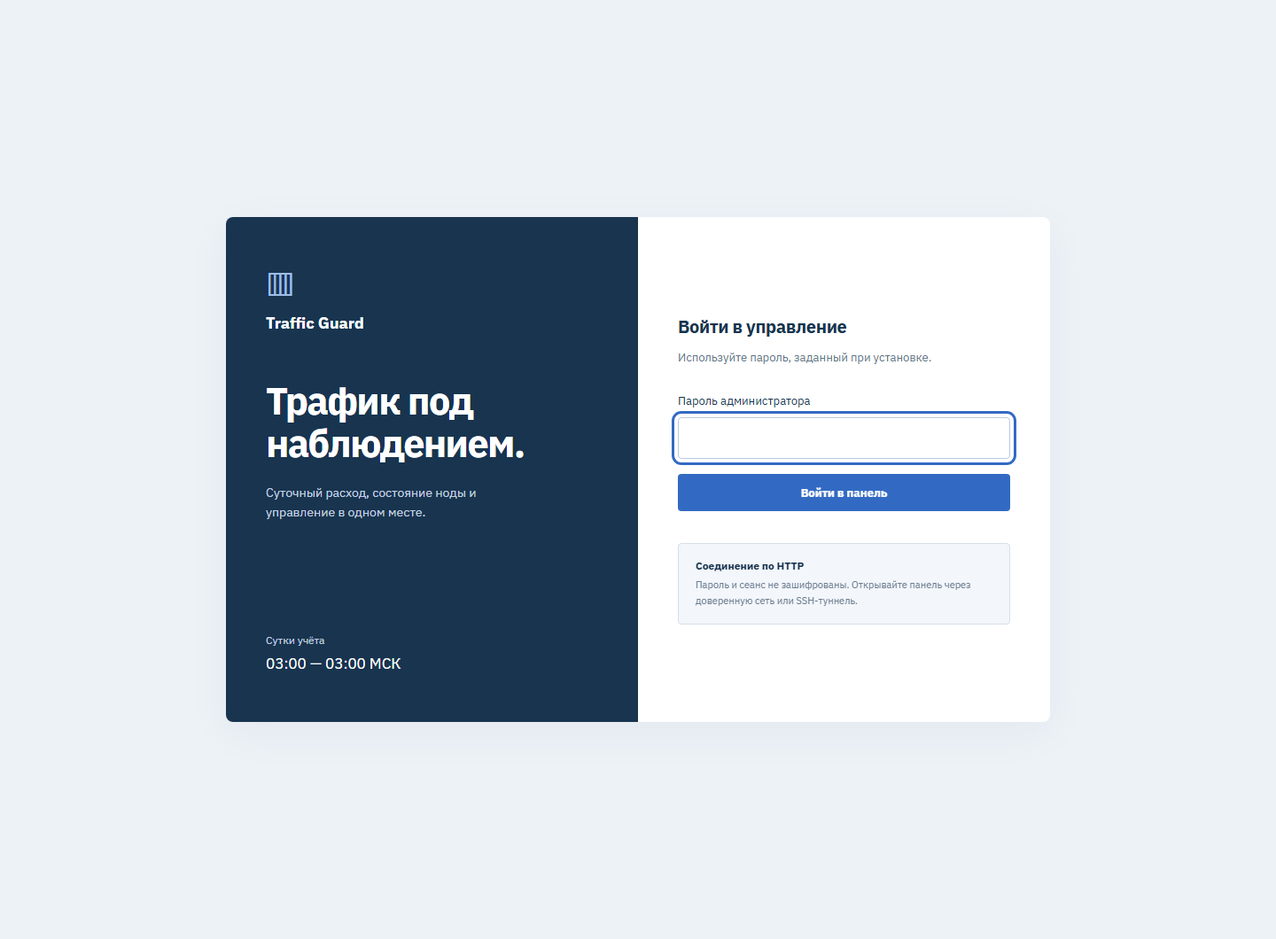
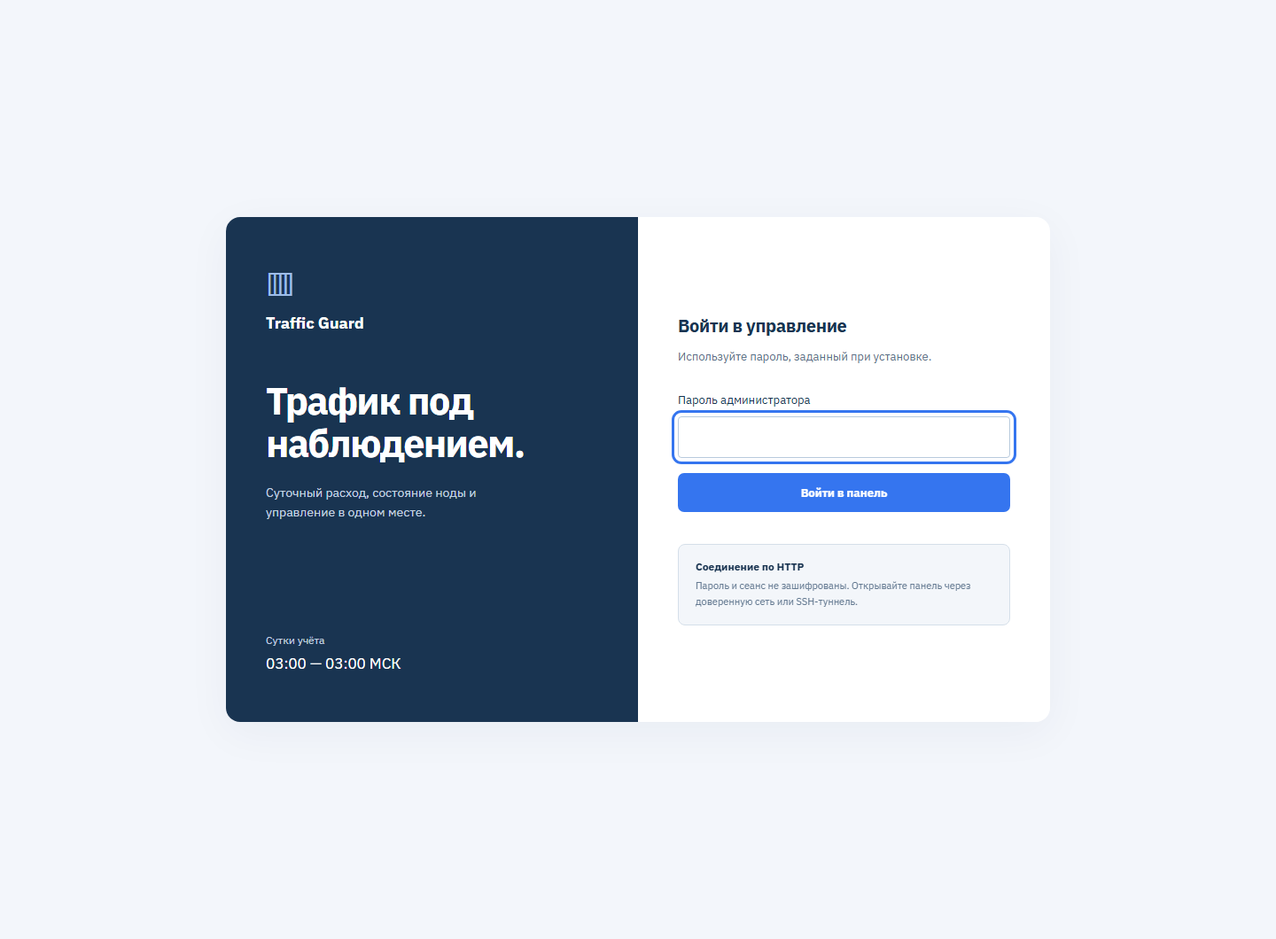
Refresh dashboard design and add interactive traffic chart inspection

Changed region(s): [[0.5312, 0.3425, 0.8125, 0.5604], [0.5312, 0.5915, 0.6875, 0.6538]]

diff --git a/static/app.js b/static/app.js
@@ -3,6 +3,7 @@ const base = document.documentElement.dataset.base;
 const $ = selector => document.querySelector(selector);
 let csrf = '', busy = false, statusData = null, historyData = null;
 let settingsDirty = false, settingsLoaded = false;
+let chartHours=24, chartState=null, chartIndex=-1;
 const modes = {active:'Учёт активен', waiting:'Ожидание 03:00', hold:'Лимит достигнут'};
 const reasons = {threshold:'Достигнут суточный порог', user_pause:'Нода остановлена вручную', user_resume:'Нода запущена вручную', user_rearm:'Учёт восстановлен с ожиданием новых суток', first_full_utc_day:'Ожидание первых полных суток', host_reboot:'Учёт продолжен после перезагрузки сервера', user_settings:'Настройки трафика изменены'};
 const gb = bytes => (Number(bytes || 0) / 1e9).toLocaleString('ru-RU', {maximumFractionDigits:2}) + ' GB';
@@ -78,6 +79,7 @@ function renderStatus(data) {
   drawRuler(cfg.limit,state.used,trusted);
   $('#rate-rx').textContent=fresh&&health.ok&&!fault?mbps(snap.rate_rx):'—';$('#rate-tx').textContent=fresh&&health.ok&&!fault?mbps(snap.rate_tx):'—';
   $('#node-state').textContent=snap.node_missing?'Не создан':snap.node_running===null?'Не удалось проверить':snap.node_running?'Работает':'Остановлена';
+  $('#node-state').classList.toggle('running',snap.node_running===true);
   $('#node-explanation').textContent=fault?'Запуск заблокирован до восстановления учёта.':state.manual_paused?'Нода остановлена вручную. Автоматический запуск при смене суток отключён.':state.mode==='waiting'&&state.passive_wait?'Начнём полный учёт с ближайших 03:00 МСК.':state.mode==='hold'?'Суточный порог достигнут. Дождитесь новых суток.':!policy.stop_on_limit?'Трафик учитывается. Остановка по порогу отключена.':snap.node_running?'Guard следит за расходом трафика.':'Можно запустить при достоверном остатке лимита.';
   $('.node-footnote').textContent=policy.stop_on_limit?'Запуск разрешён только при доступном остатке лимита.':'Порог не ограничивает запуск. Ручная пауза и аварийная защита действуют.';
   $('#interface').textContent=cfg.interface;$('#coverage').textContent=trusted&&state.accounting_complete!==false?'Полный':'Неполный';$('#controller-state').textContent=fault?'Блокировка':fresh&&health.ok?'Работает':'Требует проверки';
@@ -86,15 +88,66 @@ function renderStatus(data) {
 }
 function rows(target, days) { const body=$(target);body.replaceChildren();if(!days.length){const tr=document.createElement('tr'),td=document.createElement('td');td.colSpan=5;td.textContent='История появится после первых измерений. Расход до установки неизвестен.';tr.append(td);body.append(tr);return;}for(const day of days){const tr=document.createElement('tr');for(const text of [day.day,gb(day.used),gb(day.rx),gb(day.tx)]){const td=document.createElement('td');td.textContent=text;tr.append(td);}const td=document.createElement('td'),tag=document.createElement('span');tag.className='coverage-tag'+(day.complete?' full':'');tag.textContent=day.complete?'Полный':'Неполный';td.append(tag);tr.append(td);body.append(tr);} }
 function drawChart(samples) {
-  const chart=$('#traffic-chart');chart.replaceChildren();const mobile=matchMedia('(max-width:650px)').matches;
-  chart.setAttribute('viewBox','0 0 800 '+(mobile?260:220));
-  const now=Date.now()/1000,start=now-86400,left=mobile?78:48,right=786,top=15,bottom=mobile?210:182;
-  const max=Math.max(1,...samples.flatMap(s=>[s.rx*8/1e6,s.tx*8/1e6]))*1.12;
+  const chart=$('#traffic-chart');chart.replaceChildren();hideChartPoint();const mobile=matchMedia('(max-width:650px)').matches;
+  const height=mobile?260:220;
+  chart.setAttribute('viewBox','0 0 800 '+height);
+  const now=Date.now()/1000,start=now-chartHours*3600,left=mobile?78:48,right=786,top=15,bottom=mobile?210:182;
+  const points=samples.filter(s=>Number.isFinite(s.at)&&Number.isFinite(s.rx)&&Number.isFinite(s.tx)&&s.rx>=0&&s.tx>=0&&s.at>=start&&s.at<=now).sort((a,b)=>a.at-b.at);
+  let peakRx=0,peakTx=0;for(const s of points){peakRx=Math.max(peakRx,s.rx);peakTx=Math.max(peakTx,s.tx);}
+  const max=Math.max(1,peakRx*8/1e6,peakTx*8/1e6)*1.12;
+  const xOf=s=>left+(s.at-start)/(now-start)*(right-left),yOf=value=>bottom-(value*8/1e6/max)*(bottom-top);
   for(let i=0;i<=4;i++){const y=bottom-(bottom-top)*i/4;chart.append(svgElement('line',{x1:left,y1:y,x2:right,y2:y,class:'chart-grid'}));chart.append(svgElement('text',{x:mobile?70:40,y:y+4,'text-anchor':'end',class:'chart-label'},(max*i/4).toLocaleString('ru-RU',{maximumFractionDigits:1})));}
-  for(let i=0;i<=4;i++){const x=left+(right-left)*i/4;const label=new Intl.DateTimeFormat('ru-RU',{timeZone:'Europe/Moscow',hour:'2-digit',minute:'2-digit'}).format(new Date((start+86400*i/4)*1000));chart.append(svgElement('text',{x,y:mobile?250:210,'text-anchor':i===0?'start':i===4?'end':'middle',class:'chart-label'},label));}
-  for(const key of ['rx','tx']){let path='',last=0;for(const s of samples){const x=left+(s.at-start)/86400*(right-left),y=bottom-(s[key]*8/1e6/max)*(bottom-top);path+=(last&&s.at-last<=120?'L':'M')+x.toFixed(2)+' '+y.toFixed(2)+' ';last=s.at;}chart.append(svgElement('path',{d:path,class:'chart-line'+(key==='tx'?' tx':'')}));}
-  $('#chart-empty').hidden=samples.length>1;
+  for(let i=0;i<=4;i++){const x=left+(right-left)*i/4;const label=new Intl.DateTimeFormat('ru-RU',{timeZone:'Europe/Moscow',hour:'2-digit',minute:'2-digit'}).format(new Date((start+(now-start)*i/4)*1000));chart.append(svgElement('text',{x,y:mobile?250:210,'text-anchor':i===0?'start':i===4?'end':'middle',class:'chart-label'},label));}
+  for(const key of ['rx','tx']){
+    let path='',area='',segment=[],last=0;
+    const closeArea=()=>{if(segment.length>1)area+='M'+xOf(segment[0])+','+bottom+' '+segment.map(s=>'L'+xOf(s)+','+yOf(s[key])).join(' ')+' L'+xOf(segment[segment.length-1])+','+bottom+' Z ';segment=[];};
+    for(const s of points){if(last&&s.at-last>120)closeArea();path+=(last&&s.at-last<=120?'L':'M')+xOf(s).toFixed(2)+' '+yOf(s[key]).toFixed(2)+' ';segment.push(s);last=s.at;}closeArea();
+    if(key==='rx')chart.append(svgElement('path',{d:area,class:'chart-area'}));
+    chart.append(svgElement('path',{d:path,class:'chart-line'+(key==='tx'?' tx':'')}));
+  }
+  const guide=svgElement('g',{class:'chart-selection',visibility:'hidden','aria-hidden':'true'});
+  guide.append(svgElement('line',{y1:top,y2:bottom,class:'chart-crosshair'}),svgElement('circle',{r:4.5,class:'chart-dot rx'}),svgElement('circle',{r:4.5,class:'chart-dot tx'}));chart.append(guide);
+  chartState={points,start,now,left,right,top,bottom,height,xOf,yOf,guide};
+  $('#peak-rx').textContent=points.length?mbps(peakRx):'—';$('#peak-tx').textContent=points.length?mbps(peakTx):'—';
+  $('.chart-panel .panel-heading p').textContent='Измеренная скорость за '+({1:'последний час',6:'последние 6 часов',24:'последние 24 часа'}[chartHours]);
+  $('#chart-empty').hidden=points.length>1;
 }
+function hideChartPoint(){chartIndex=-1;if(chartState)chartState.guide.setAttribute('visibility','hidden');const tip=$('#chart-tooltip');if(tip)tip.hidden=true;}
+function showChartPoint(index, targetAt=null){
+  const g=chartState;if(!g||!g.points.length)return;
+  const s=g.points[index],gap=targetAt!==null&&Math.abs(s.at-targetAt)>120;
+  const tip=$('#chart-tooltip');tip.hidden=false;
+  $('#chart-point-time').textContent=dateTime(gap?targetAt:s.at)+' МСК';
+  $('#chart-point-rx').textContent=gap?'Нет измерений':mbps(s.rx);$('#chart-point-tx').textContent=gap?'Нет измерений':mbps(s.tx);
+  const x=gap?g.left+(targetAt-g.start)/(g.now-g.start)*(g.right-g.left):g.xOf(s);
+  const [line,rx,tx]=g.guide.children;line.setAttribute('x1',x);line.setAttribute('x2',x);
+  rx.setAttribute('cx',x);rx.setAttribute('cy',g.yOf(s.rx));tx.setAttribute('cx',x);tx.setAttribute('cy',g.yOf(s.tx));
+  rx.setAttribute('visibility',gap?'hidden':'visible');tx.setAttribute('visibility',gap?'hidden':'visible');g.guide.setAttribute('visibility','visible');
+  const width=$('#traffic-chart').getBoundingClientRect().width;
+  tip.style.left=Math.max(8,Math.min(width-tip.offsetWidth-8,x/800*width-tip.offsetWidth/2))+'px';
+  chartIndex=index;
+}
+function inspectChart(event){
+  const g=chartState;if(!g||!g.points.length)return;
+  const rect=$('#traffic-chart').getBoundingClientRect(),x=(event.clientX-rect.left)/rect.width*800,y=(event.clientY-rect.top)/rect.height*g.height;
+  if(x<g.left||x>g.right||y<g.top||y>g.bottom){hideChartPoint();return;}
+  const at=g.start+(x-g.left)/(g.right-g.left)*(g.now-g.start);
+  let lo=0,hi=g.points.length-1;while(lo<hi){const mid=Math.floor((lo+hi)/2);if(g.points[mid].at<at)lo=mid+1;else hi=mid;}
+  const index=lo>0&&Math.abs(g.points[lo-1].at-at)<Math.abs(g.points[lo].at-at)?lo-1:lo;showChartPoint(index,at);
+}
+const chart=$('#traffic-chart'),wrap=document.createElement('div');wrap.className='chart-wrap';chart.before(wrap);wrap.append(chart);
+chart.setAttribute('tabindex','0');chart.setAttribute('aria-describedby','chart-hint chart-tooltip');
+const tooltip=document.createElement('div');tooltip.id='chart-tooltip';tooltip.className='chart-tooltip';tooltip.hidden=true;tooltip.setAttribute('role','status');
+tooltip.innerHTML='<strong id="chart-point-time"></strong><div><span class="rx-label">Входящий</span><b id="chart-point-rx"></b></div><div><span class="tx-label">Исходящий</span><b id="chart-point-tx"></b></div>';wrap.append(tooltip);
+const chartExtras=document.createElement('div');chartExtras.className='chart-extras';chartExtras.innerHTML='<div class="chart-ranges" role="group" aria-label="Период графика"><button type="button" data-hours="1" aria-pressed="false">1 час</button><button type="button" data-hours="6" aria-pressed="false">6 часов</button><button type="button" data-hours="24" aria-pressed="true">24 часа</button></div><p id="chart-hint">Наведите курсор или коснитесь графика. С клавиатуры — стрелки.</p>';wrap.before(chartExtras);
+const peaks=document.createElement('div');peaks.className='chart-peaks';peaks.innerHTML='<span>Пик входящего <strong id="peak-rx">—</strong></span><span>Пик исходящего <strong id="peak-tx">—</strong></span>';wrap.after(peaks);
+chart.addEventListener('pointermove',inspectChart);chart.addEventListener('pointerdown',inspectChart);chart.addEventListener('pointerleave',event=>{if(event.pointerType!=='touch')hideChartPoint();});chart.addEventListener('pointercancel',hideChartPoint);chart.addEventListener('blur',hideChartPoint);
+chart.addEventListener('focus',()=>{if(chartState?.points.length)showChartPoint(chartState.points.length-1);});
+chart.addEventListener('keydown',event=>{const g=chartState;if(!g||!g.points.length)return;if(event.key==='Escape'){hideChartPoint();return;}if(!['ArrowLeft','ArrowRight','Home','End'].includes(event.key))return;event.preventDefault();const index=event.key==='Home'?0:event.key==='End'?g.points.length-1:Math.max(0,Math.min(g.points.length-1,(chartIndex<0?g.points.length-1:chartIndex)+(event.key==='ArrowLeft'?-1:1)));showChartPoint(index);});
+document.querySelectorAll('[data-hours]').forEach(button=>button.addEventListener('click',()=>{chartHours=Number(button.dataset.hours);document.querySelectorAll('[data-hours]').forEach(b=>b.setAttribute('aria-pressed',String(b===button)));if(historyData)drawChart(historyData.samples);}));
+const navIcons={overview:'M3 3h7v7H3z M14 3h7v7h-7z M3 14h7v7H3z M14 14h7v7h-7z',history:'M4 20V10 M10 20V4 M16 20v-7 M22 20H2',events:'M12 8v5l3 2 M21 12a9 9 0 1 1-18 0 9 9 0 0 1 18 0',settings:'M4 7h16 M4 17h16 M9 4v6 M16 14v6'};
+document.querySelectorAll('.sidebar [data-tab]').forEach(button=>{const icon=svgElement('svg',{viewBox:'0 0 24 24',class:'nav-icon','aria-hidden':'true'});icon.append(svgElement('path',{d:navIcons[button.dataset.tab]}));button.prepend(icon);});
+$('.brand span:last-child').lastChild.textContent=' Guard';
 function renderHistory(data) {
   historyData=data;
   rows('#recent-days',data.days.slice(0,5));rows('#all-days',data.days);drawChart(data.samples);

diff --git a/static/style.css b/static/style.css
@@ -4,6 +4,25 @@
 /* Stretch the sidebar itself so its footer follows the full page height. */
 @media(min-width:851px){.sidebar{position:static;height:auto;min-height:100vh;align-self:stretch}.sidebar-footer{padding-top:32px}}
 
+/* Monitoring surface: clear hierarchy, two distinct traffic series. */
+:root{--fog:#f3f6fb;--navy:#193451;--blue:#3575ef;--line:#e1e8f2;--muted:#586f88;--tx:#128577}
+.main-area{padding-top:42px}.page-header{margin-bottom:32px}.page-header h1{font-size:38px;letter-spacing:-1.4px}
+.sidebar{background:#193451}.brand{letter-spacing:-.4px}.nav-item{display:flex;align-items:center;gap:11px;border-radius:8px;font-size:14px;min-height:44px}.nav-icon{width:17px;height:17px;flex-shrink:0;fill:none;stroke:currentColor;stroke-width:1.7;stroke-linecap:round;stroke-linejoin:round}
+.nav-item.selected{background:#315276}.sidebar-footer{border-top:1px solid #ffffff1a;padding-top:20px}
+.quota-panel{border:1px solid #dfe7f2;border-top:3px solid var(--blue);border-radius:16px;padding:28px 32px 22px;box-shadow:0 5px 22px #19345104}
+.quota-values strong{font-size:40px;letter-spacing:-1.6px}.quota-values{margin-top:30px}.reset-clock{border-radius:10px;background:var(--fog);padding:12px 16px;min-width:155px}.reset-clock strong{font-size:24px}
+.monitor-layout{gap:24px;margin-top:24px}.chart-panel{border:1px solid var(--line);border-radius:14px;padding:26px 28px}.chart-legend{gap:8px}.chart-legend .tx-key:before{background:var(--tx);height:2px;border-top:2px dashed var(--tx)}
+.current-rates{gap:36px;margin-top:24px;margin-bottom:14px}.current-rates>div{padding-right:28px}.current-rates>div+div{border-left:1px solid var(--line);padding-left:28px}.current-rates strong{font-size:27px;font-weight:500}.current-rates>div:first-child strong{color:var(--blue)}.current-rates>div:last-child strong{color:var(--tx)}
+.chart-wrap{position:relative;min-width:0}.traffic-chart{touch-action:pan-y;cursor:crosshair}.chart-line{stroke-width:2.5;vector-effect:non-scaling-stroke}.chart-line.tx{stroke:var(--tx);stroke-dasharray:6 4;stroke-width:2}.chart-area{fill:var(--blue);fill-opacity:.075}.chart-grid{stroke:#e7edf5;stroke-dasharray:3 5}.chart-selection{pointer-events:none}.chart-crosshair{stroke:#8498af;stroke-dasharray:4 4;vector-effect:non-scaling-stroke}.chart-dot{fill:var(--blue);stroke:white;stroke-width:2;vector-effect:non-scaling-stroke}.chart-dot.tx{fill:var(--tx)}
+.chart-tooltip{position:absolute;top:8px;z-index:2;pointer-events:none;width:240px;max-width:calc(100% - 16px);background:#193451;color:white;border:1px solid #ffffff20;border-radius:10px;padding:14px 16px;box-shadow:0 8px 25px #19345126;font-size:12px}.chart-tooltip>strong{display:block;margin-bottom:12px;font-size:12px;color:#dce7f5}.chart-tooltip>div{display:flex;justify-content:space-between;gap:14px;margin:8px 0 0}.chart-tooltip b{font-weight:600;font-variant-numeric:tabular-nums}.rx-label:before,.tx-label:before{content:'';display:inline-block;width:7px;height:7px;border-radius:50%;background:#7cabff;margin-right:7px}.tx-label:before{background:#77d4c4}
+.chart-extras{display:flex;align-items:center;justify-content:space-between;gap:15px;margin:20px 0 15px}.chart-extras p{font-size:11px;line-height:1.5;color:var(--muted);max-width:200px;text-align:right}.chart-ranges{display:flex;gap:3px;padding:4px;background:var(--fog);border-radius:8px;flex-shrink:0}.chart-ranges button{border:0;background:transparent;border-radius:6px;color:var(--muted);padding:8px 10px;min-height:36px;font-size:12px}.chart-ranges button[aria-pressed=true]{background:white;color:var(--blue);box-shadow:0 1px 5px #19345112;font-weight:600}
+.chart-peaks{display:flex;gap:24px;border-top:1px solid var(--line);padding-top:17px;margin-top:18px;font-size:11px;color:var(--muted)}.chart-peaks strong{display:block;font-size:14px;color:var(--navy);margin-top:5px;font-weight:500}
+.node-panel{background:#fff;border-color:var(--line);border-radius:12px}.node-heading{padding-bottom:15px;border-bottom:1px solid var(--line)}.node-state{font-size:25px}.node-state:before{content:'';display:inline-block;width:9px;height:9px;background:#8294aa;border-radius:50%;margin-right:10px;vertical-align:middle}.node-state.running:before{background:#189275;box-shadow:0 0 0 4px #18927512}.node-details{padding:8px 0;margin:15px 0 20px}.button{border-radius:7px;min-height:44px}.primary:hover{background:#2863cd}.badge{border-radius:7px;background:#e5f5ed;color:#167455}.badge.waiting{background:#fff0d9;color:#926018}.badge.alert{background:#fbe7e8;color:var(--red)}
+.recent-panel{background:white;border:1px solid var(--line);border-radius:12px;padding:24px 28px}.recent-panel .panel-heading{margin-bottom:12px}tbody tr:hover{background:#f7f9fd}.coverage-tag.full{background:#eaf2fd;border-radius:5px}.settings-form{border-radius:14px}.policy-option{border-radius:9px}.http-note{border-radius:8px}.login-layout{border-radius:16px}.notice{border-radius:0 9px 9px 0}
+@media(min-width:1151px){.app-shell{grid-template-columns:232px minmax(0,1fr)}}
+@media(max-width:850px){.nav-item{gap:7px;font-size:12px}.nav-icon{width:15px;height:15px}.main-area{padding:25px}}
+@media(max-width:650px){.main-area{padding:22px 18px}.page-header h1{font-size:29px}.quota-panel{padding:20px 18px}.quota-values strong{font-size:28px}.reset-clock{min-width:0;padding:8px 9px}.reset-clock strong{font-size:19px}.chart-panel{padding:22px 18px}.current-rates{gap:0}.current-rates>div{padding-right:20px}.current-rates>div+div{padding-left:20px}.current-rates strong{font-size:21px}.chart-extras{align-items:flex-start;flex-direction:column;gap:8px}.chart-extras p{max-width:none;text-align:left}.chart-ranges button{min-height:44px;padding:9px 15px}.chart-peaks{gap:20px}.chart-tooltip{font-size:12px;width:230px}.recent-panel{padding:20px 18px}.nav-item{gap:5px;padding:9px 7px}.nav-icon{width:13px;height:13px}.sidebar nav{gap:3px}.brand span:last-child{word-spacing:3px}}
+
 .settings-status{font-size:12px;color:var(--muted);padding:8px 12px;background:#e0e9f3;border-radius:4px;white-space:nowrap}
 .settings-form{max-width:850px;background:var(--paper);border:1px solid var(--line);border-top:3px solid var(--blue);border-radius:6px;padding:28px 30px;margin-top:24px}
 .settings-form-heading{margin-bottom:26px}.settings-form-heading p{font-size:13px;color:var(--muted);margin-top:7px}

diff --git a/browser_check.py b/browser_check.py
@@ -12,13 +12,50 @@ with sync_playwright() as pw:
     page=context.new_page()
     page.on('pageerror',lambda error:errors.append(str(error)))
     page.goto(url,wait_until='domcontentloaded')
+    page.evaluate('document.fonts.ready')
     expect(page.locator('#login-form')).to_be_visible()
     page.screenshot(path=str(p/'login-desktop.png'),full_page=True)
     page.locator('#password').fill('preview-password-123')
     page.locator('#login-form button').click()
     expect(page.locator('#node-state')).to_have_text('Работает')
     expect(page.locator('#all-days tr')).to_have_count(5)
-    page.screenshot(path=str(p/'panel-desktop-v2.png'),full_page=True)
+    page.screenshot(path=str(p/'panel-desktop-v3.png'),full_page=True)
+    samples=page.evaluate("async () => (await (await fetch(document.documentElement.dataset.base+'api/history')).json()).samples")
+    peak=max(samples,key=lambda s:s['rx'])
+    expected=page.evaluate('(s) => ({rx:mbps(s.rx),tx:mbps(s.tx),time:dateTime(s.at)+" МСК"})',peak)
+    page.locator('.chart-panel').scroll_into_view_if_needed()
+    page.wait_for_timeout(350)
+    bounds=page.locator('#traffic-chart').bounding_box()
+    fraction=page.evaluate('(at)=>(at-(Date.now()/1000-86400))/86400',peak['at'])
+    page.mouse.move(bounds['x']+bounds['width']*(48+fraction*(786-48))/800,bounds['y']+bounds['height']*.45)
+    expect(page.locator('#chart-point-rx')).to_have_text(expected['rx'])
+    expect(page.locator('#chart-point-tx')).to_have_text(expected['tx'])
+    expect(page.locator('#chart-point-time')).to_have_text(expected['time'])
+    expect(page.locator('#chart-tooltip')).to_be_visible()
+    page.screenshot(path=str(p/'chart-hover-desktop.png'),clip=page.locator('.chart-panel').bounding_box())
+    page.mouse.move(20,20)
+    expect(page.locator('#chart-tooltip')).to_be_hidden()
+    page.locator('#traffic-chart').focus()
+    page.keyboard.press('Home')
+    expect(page.locator('#chart-tooltip')).to_be_visible()
+    page.keyboard.press('ArrowRight')
+    page.keyboard.press('End')
+    page.keyboard.press('Escape')
+    expect(page.locator('#chart-tooltip')).to_be_hidden()
+    page.locator('[data-hours="1"]').click()
+    expect(page.locator('[data-hours="1"]')).to_have_attribute('aria-pressed','true')
+    expect(page.locator('.chart-panel .panel-heading p')).to_contain_text('последний час')
+    page.evaluate('drawChart([])')
+    expect(page.locator('#chart-empty')).to_be_visible()
+    expect(page.locator('#chart-tooltip')).to_be_hidden()
+    page.locator('[data-hours="24"]').click()
+    page.evaluate('drawChart([{at:Date.now()/1000-4000,rx:1e6,tx:2e6},{at:Date.now()/1000-400,rx:3e6,tx:4e6}])')
+    bounds=page.locator('#traffic-chart').bounding_box()
+    page.mouse.move(bounds['x']+bounds['width']*(48+(1-2200/86400)*(786-48))/800,bounds['y']+bounds['height']*.45)
+    expect(page.locator('#chart-point-rx')).to_have_text('Нет измерений')
+    page.mouse.move(20,20)
+    page.locator('[data-hours="6"]').click()
+    page.locator('[data-hours="24"]').click()
     page.locator('#pause').click()
     expect(page.locator('#node-state')).to_have_text('Остановлена',timeout=10000)
     page.locator('#resume').click()
@@ -57,10 +94,10 @@ with sync_playwright() as pw:
     expect(page.locator('#save-settings')).to_be_disabled(timeout=10000)
     expect(page.locator('#limit-gb')).to_have_value('145.5')
     expect(page.locator('#toast')).to_be_hidden(timeout=8000)
-    page.screenshot(path=str(p/'settings-desktop.png'),full_page=True)
+    page.screenshot(path=str(p/'settings-desktop-v2.png'),full_page=True)
     page.set_viewport_size({'width':390,'height':844})
     assert page.evaluate('document.documentElement.scrollWidth <= innerWidth'), 'Settings mobile overflow'
-    page.screenshot(path=str(p/'settings-mobile.png'),full_page=True)
+    page.screenshot(path=str(p/'settings-mobile-v2.png'),full_page=True)
     page.set_viewport_size({'width':1440,'height':1060})
     page.locator('#limit-gb').fill('145')
     page.locator('#save-settings').click()
@@ -70,7 +107,19 @@ with sync_playwright() as pw:
     expect(page.locator('#traffic-chart')).to_have_attribute('viewBox','0 0 800 260',timeout=8000)
     assert page.evaluate('document.documentElement.scrollWidth <= innerWidth'), 'Mobile overflow'
     expect(page.locator('#toast')).to_be_hidden(timeout=8000)
-    page.screenshot(path=str(p/'panel-mobile-v2.png'),full_page=True)
+    page.screenshot(path=str(p/'panel-mobile-v3.png'),full_page=True)
+    touch=browser.new_context(viewport={'width':390,'height':844},has_touch=True,is_mobile=True)
+    touch.add_cookies(context.cookies())
+    mobile=touch.new_page()
+    mobile.on('pageerror',lambda error:errors.append(str(error)))
+    mobile.goto(url,wait_until='domcontentloaded')
+    expect(mobile.locator('#peak-rx')).not_to_have_text('—')
+    mobile.locator('#traffic-chart').scroll_into_view_if_needed()
+    box=mobile.locator('#traffic-chart').bounding_box()
+    mobile.touchscreen.tap(box['x']+box['width']*.55,box['y']+box['height']*.6)
+    expect(mobile.locator('#chart-tooltip')).to_be_visible()
+    assert mobile.evaluate('document.documentElement.scrollWidth <= innerWidth'), 'Touch tooltip overflow'
+    touch.close()
     page.locator('#rearm').click()
     expect(page.locator('#rearm-dialog')).to_be_visible()
     page.locator('#rearm-dialog button[value="cancel"]').click()
@@ -87,4 +136,4 @@ with sync_playwright() as pw:
     expect(page.locator('#login-form')).to_be_visible()
     assert not errors, errors
     browser.close()
-print('Browser QA passed: login, stop/start, history, CSV, events, live settings, monitoring, reload persistence, dirty form, mobile, recovery, logout; no JS errors.')
+print('Browser QA passed: measured peak tooltip, keyboard, touch, time ranges, gaps, empty chart, login, stop/start, CSV, live settings, mobile, recovery, logout; no JS errors.')

diff --git a/README.md b/README.md
@@ -14,7 +14,7 @@
 
 </div>
 
-![Обзор Traffic Guard: суточный лимит, график трафика, состояние ноды и история](artifacts/panel-desktop-v2.png)
+![Обзор Traffic Guard: суточный лимит, график трафика, состояние ноды и история](artifacts/panel-desktop-v3.png)
 
 <p align="center"><sub>Панель на демонстрационных данных. Скриншоты сделаны в локальном preview.</sub></p>
 
@@ -28,7 +28,7 @@ Traffic Guard работает в отдельном Docker-контейнере
 | | Что доступно |
 | :--- | :--- |
 | **Контроль лимита** | Суточный расход RX + TX, остаток до остановки, отсчёт до новых суток |
-| **Мониторинг** | Текущие скорости и график последних 24 часов |
+| **Мониторинг** | Текущие скорости, график за 1/6/24 часа, пики и значения под курсором или касанием |
 | **История** | Расход по дням, отметки неполного учёта, экспорт CSV |
 | **Перезагрузка сервера** | Продолжение с сохранённым расходом и учёт трафика после загрузки |
 | **Управление нодой** | Ручная остановка, запуск с проверкой лимита, восстановление учёта |
@@ -46,13 +46,19 @@ Traffic Guard работает в отдельном Docker-контейнере
 
 ### Мобильная версия
 
-<img src="artifacts/panel-mobile-v2.png" alt="Traffic Guard на телефоне: лимит, график, управление нодой и история" width="390">
+<img src="artifacts/panel-mobile-v3.png" alt="Traffic Guard на телефоне: лимит, график, управление нодой и история" width="390">
+
+### Значения на графике
+
+![График с подсказкой: время измерения и входящая/исходящая скорость](artifacts/chart-hover-desktop.png)
+
+Наведите курсор или коснитесь графика: подсказка покажет время в МСК и обе скорости в Мбит/с. С клавиатуры доступны стрелки, Home/End и Escape. В пропусках истории отображается «Нет измерений». Пики и подсказки относятся к сохранённым измерениям, а не к непрерывной записи каждой сетевой вспышки.
 
 ### Настройки с применением сразу
 
-![Изменение порога трафика и выбор остановки или наблюдения](artifacts/settings-desktop.png)
+![Изменение порога трафика и выбор остановки или наблюдения](artifacts/settings-desktop-v2.png)
 
-<img src="artifacts/settings-mobile.png" alt="Форма изменения настроек трафика на телефоне" width="390">
+<img src="artifacts/settings-mobile-v2.png" alt="Форма изменения настроек трафика на телефоне" width="390">
 
 Все значения на скриншотах демонстрационные.
 

diff --git a/VALIDATION.md b/VALIDATION.md
@@ -8,6 +8,7 @@
 - Compose YAML разобран, проверено отсутствие Docker socket у веб-сервиса и LF в инсталлере.
 - Playwright/Chromium: **браузерная проверка прошла**. Вход/выход, остановка/запуск имитации ноды, история, CSV, события, подтверждение восстановления, настройки. Ошибок JavaScript нет.
 - Браузерные проверки редактирования настроек: остановка по снижению порога, продолжение в режиме наблюдения, сохранение после reload, дробные GB с запятой, сохранение черновика при фоновом обновлении, валидация нулевого значения и отсутствие переполнения формы на телефоне.
+- Интерактивный график: подсказка на максимуме RX сверена с данными HTTP-истории (время/RX/TX), скрытие после ухода курсора, стрелки/Home/End/Escape, диапазоны 1/6/24 часа, пустая история и пропуски без выдуманных значений. Реальный touch-контекст Chromium проверяет сохранение подсказки после касания и отсутствие горизонтального переполнения.
 - Проверены экраны 1440×1060 и 390×844; горизонтального переполнения страницы нет, подписи графика адаптируются. Снимки в `artifacts/` показывают **синтетические данные preview**, не статистику настоящей ноды.
 - **Живой Docker/Linux не проверен**: Docker Engine здесь отсутствует. Установка apt-пакетов, systemd, реальный Unix socket, bind mounts и права пользователей требуют интеграционного теста на Ubuntu/Debian.
 - Dockerfile запускает модульные/HTTP-тесты при сборке; инсталлер проверяет чтение хостовых счётчиков из контейнера до переключения старого сервиса, а после запуска — health и скрытый путь HTTP.

diff --git a/DESIGN.md b/DESIGN.md
@@ -45,3 +45,23 @@ The explicit UX search `inline validation saving feedback` returned form inline
 validation, accessible error summaries, and error placement. The existing page
 structure was retained; recommendations were scoped to the settings form and
 its desktop/mobile interaction states.
+
+The monitoring refresh keeps a full-height navy navigation rail but adds native
+SVG navigation icons, clearer type hierarchy, spacious white instrument panels,
+and a quieter background. Traffic series use blue solid RX and teal dashed TX;
+the light filled area represents RX rather than decorative effects. Different
+line styles keep the meaning available without relying on hue alone.
+
+Reference review: inspected the skill repository's `screenshots/website.png`
+and rendered `projects/healthcare-dashboard/index.html` locally. These informed
+surface spacing and hierarchy; no example assets or application code were copied.
+The explicit chart query `dashboard time series tooltip` returned time-series
+line/area chart guidance with distinct line styles and keyboard hover values.
+This existing interface remains plain HTML/CSS/SVG, without a chart CDN dependency.
+
+The tooltip chooses the nearest actual measurement using timestamp search, shows
+Moscow time and RX/TX rates, and moves within the chart bounds. Missing spans over
+120 seconds stay visibly broken and report no measurement rather than fabricated
+interpolated data. Touch keeps the selection after release; keyboard selection
+supports arrows, Home/End and Escape. Range controls and measured peak values
+provide useful overview without forcing the user to inspect every point.
